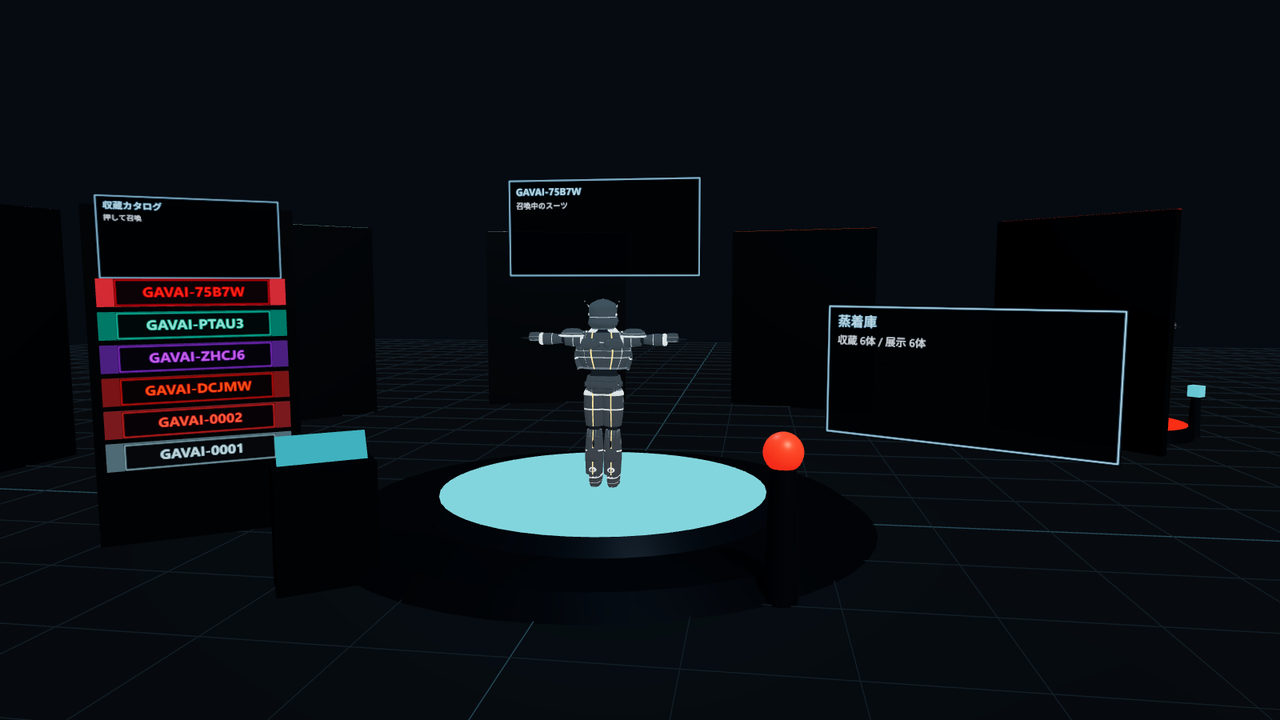
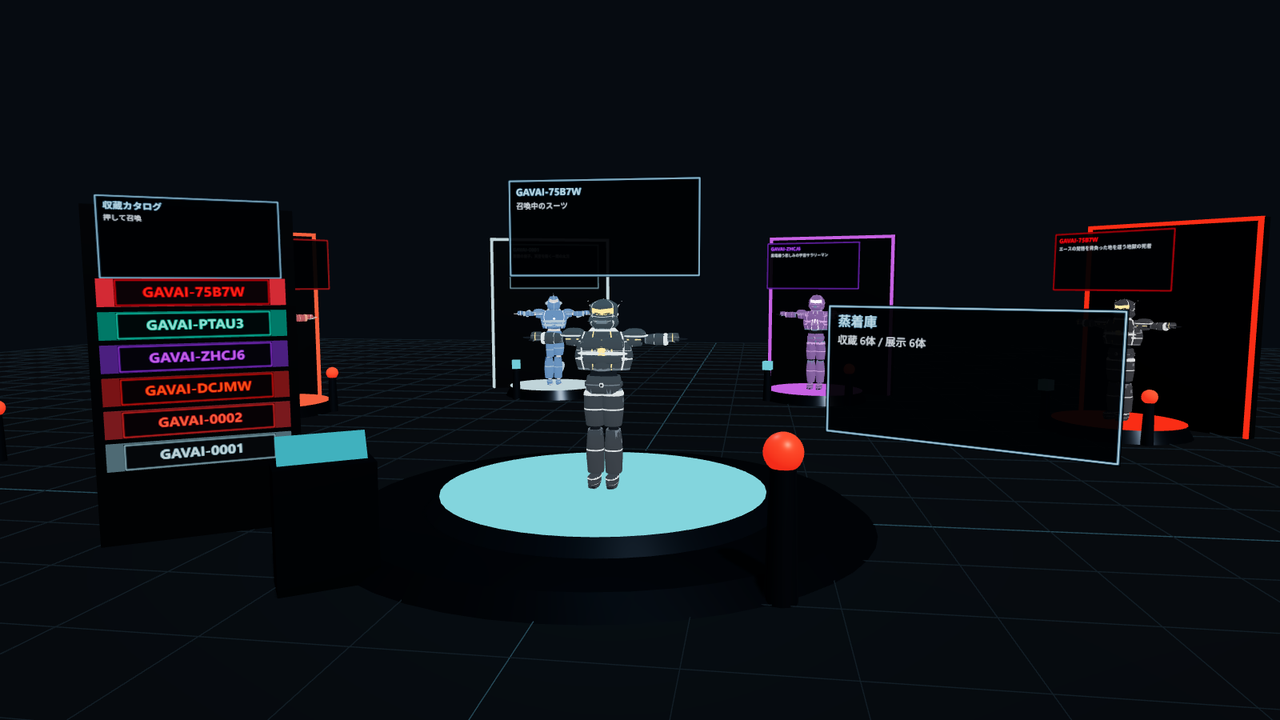
xrift: 向きの真因修正 — 余計な2つのπを撤去(黒い壁+中央背面化の解消)
実機FB(中央スーツが背面に"変わった"/中央から黒い壁しか見えない)の真因:
Phase 2.1で入れた2つのπ回転が両方とも余計だった。

- 中央: rotateVRM0後のVRM0は素で+Z(スポーン側)を向く — Phase 2で
  実証済みだった正しい状態に、π反転を重ねて背面化させていた → 撤去
- アルコーブ: rotYに+πを足したためアルコーブ全体が反転し、背面パネルが
  中央側に回り込んで「黒い壁」化。中のスーツもπ反転で合計2π=背面のまま
  → 両方撤去。パネルは後ろ、スーツは中央向きが復元
- 向き定数SUIT_FACINGをlib/galleryに一元化(実機で逆なら1行で全台座反転)
- ShotCameraの画角をURLパラメータ化(?cam=&look=)— 撮影検証を任意角で
- レンダ検証済み: 中央スーツのバイザー発光が正面に見え、アルコーブ6基
  全てスーツが手前・パネルが奥。この実景でサムネイルも更新

diff --git a/xrift/gallery-world/src/World.tsx b/xrift/gallery-world/src/World.tsx
@@ -20,20 +20,30 @@ const IS_SHOT = typeof window !== 'undefined' && window.location.search.includes
 
 function ShotCamera() {
   const { gl, scene, camera } = useThree()
-  useFrame(() => {
-    camera.position.set(1.4, 2.2, 7.4)
-    camera.lookAt(0, 1.25, -2.4)
+  // 画角はURLで差し替え可: ?shot=1&cam=1.4,2.2,7.4&look=0,1.25,-2.4
+  const params = new URLSearchParams(window.location.search)
+  const vec3 = (key: string, fallback: [number, number, number]) => {
+    const v = (params.get(key) ?? '').split(',').map(Number)
+    return (v.length === 3 && v.every(Number.isFinite)
+      ? (v as [number, number, number])
+      : fallback)
+  }
+  const camPos = vec3('cam', [1.4, 2.2, 7.4])
+  const lookAt = vec3('look', [0, 1.25, -2.4])
+  const aim = () => {
+    camera.position.set(...camPos)
+    camera.lookAt(...lookAt)
     if ('fov' in camera && camera.fov !== 48) {
       camera.fov = 48
       camera.updateProjectionMatrix()
     }
-  }, 1000)  // プレイヤーコントローラの後に上書きする
+  }
+  useFrame(aim, 1000)  // プレイヤーコントローラの後に上書きする
   // 撮影イベント: 同期でrender→toDataURL(コンポジタ非依存のピクセル取得)。
   // 結果はcanvasのdata属性経由で受け渡す(グローバル汚染なし)
   useEffect(() => {
     const capture = () => {
-      camera.position.set(1.4, 2.2, 7.4)
-      camera.lookAt(0, 1.25, -2.4)
+      aim()
       gl.setClearColor('#060b11', 1)          // 手動renderは背景を明示しないと白飛びする
       scene.background = new Color('#060b11')
       gl.render(scene, camera)
@@ -41,7 +51,7 @@ function ShotCamera() {
     }
     window.addEventListener('gavai-shot', capture)
     return () => window.removeEventListener('gavai-shot', capture)
-  }, [gl, scene, camera])
+  })
   return null
 }
 
@@ -108,7 +118,9 @@ export const World: React.FC<WorldProps> = ({ position = [0, 0, 0], scale = 1 })
       {alcoves.map((entry, i) => {
         const a = (i - (alcoves.length - 1) / 2) * (Math.PI / 5.2)
         const pos: [number, number, number] = [Math.sin(a) * 8.5, 0, -Math.cos(a) * 8.5]
-        const rotY = Math.atan2(-pos[0], -pos[2]) + Math.PI
+        // ローカル+z(スーツの正面)が中央を向く回転。+πを足すとアルコーブ全体が
+        // 反転し、背面パネルが中央側に回り込んで「黒い壁」になる(実機で実証済みの罠)
+        const rotY = Math.atan2(-pos[0], -pos[2])
         return (
           <AlcoveExhibit
             key={entry.code}

diff --git a/xrift/gallery-world/src/components/SuitExhibit.tsx b/xrift/gallery-world/src/components/SuitExhibit.tsx
@@ -9,7 +9,7 @@ import {
   createVRMAnimationClip,
   type VRMAnimation,
 } from '@pixiv/three-vrm-animation'
-import { enqueueLoad, fetchSuitFiles, type GalleryEntry } from '~/lib/gallery'
+import { enqueueLoad, fetchSuitFiles, SUIT_FACING, type GalleryEntry } from '~/lib/gallery'
 import { TextPlate } from './TextPlate'
 
 // スーツVRM(+VRMA)の実行時ロード。逐次キューで1体ずつ流し、
@@ -131,8 +131,8 @@ export function AlcoveExhibit({ entry, position, rotationY, onSummon, onResult }
         <cylinderGeometry args={[0.87, 0.87, 0.012, 32]} />
         <meshBasicMaterial color={accent} />
       </mesh>
-      {/* スーツ — π回転で正面(中央側)を向かせる。素のVRM0は背を向けて立つ */}
-      <group position={[0, 0.19, 0]} rotation={[0, Math.PI, 0]}>
+      {/* スーツ — rotateVRM0後の自然な向き(ローカル+z=中央側)で立つ */}
+      <group position={[0, 0.19, 0]} rotation={[0, SUIT_FACING, 0]}>
         {vrm && <primitive object={vrm.scene} />}
       </group>
       <TextPlate

diff --git a/xrift/gallery-world/src/components/CenterStage.tsx b/xrift/gallery-world/src/components/CenterStage.tsx
@@ -1,5 +1,5 @@
 import { Interactable, TextInput } from '@xrift/world-components'
-import { normalizeCode, type GalleryEntry } from '~/lib/gallery'
+import { normalizeCode, SUIT_FACING, type GalleryEntry } from '~/lib/gallery'
 import { useSuit, useHenshin } from './SuitExhibit'
 import { TextPlate } from './TextPlate'
 
@@ -38,8 +38,8 @@ export function CenterStage({
         <cylinderGeometry args={[1.52, 1.52, 0.015, 48]} />
         <meshBasicMaterial color="#38d9f1" />
       </mesh>
-      {/* スーツ — π回転でスポーン側(正面)を向かせる */}
-      <group position={[0, 0.28, 0]} rotation={[0, Math.PI, 0]}>
+      {/* スーツ — rotateVRM0後の自然な向き(+Z=スポーン側)。Phase 2で実証済みの基準 */}
+      <group position={[0, 0.28, 0]} rotation={[0, SUIT_FACING, 0]}>
         {vrm && <primitive object={vrm.scene} />}
       </group>
       {code && (

diff --git a/xrift/gallery-world/src/lib/gallery.ts b/xrift/gallery-world/src/lib/gallery.ts
@@ -4,6 +4,11 @@
 const SUITS_BASE =
   'https://ddoedsybeuivbqtjgrrx.supabase.co/storage/v1/object/public/suits'
 
+// スーツの正面補正(全展示共通)。VRM0はrotateVRM0後に+Z正面で立つ =
+// 追加回転は不要、が実機実証済みの基準。もし実機で背面になったら
+// ここを Math.PI にして再アップ(1行で全台座に効く)
+export const SUIT_FACING = 0
+
 export interface GalleryEntry {
   code: string
   blueprint_id?: string
